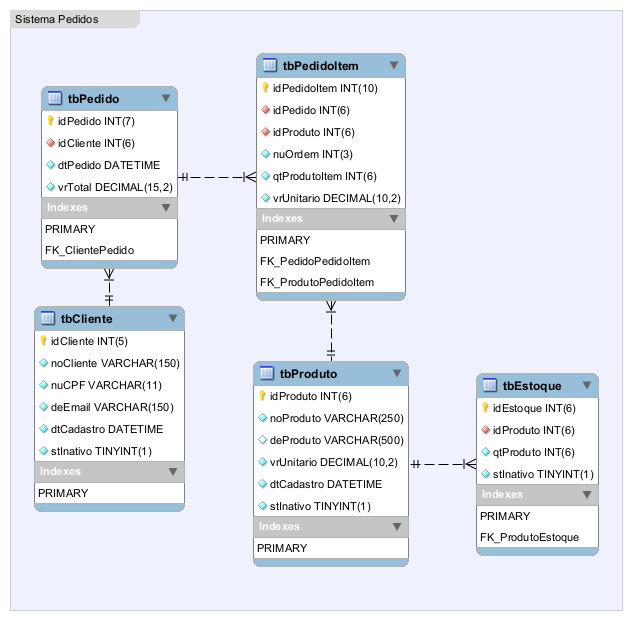
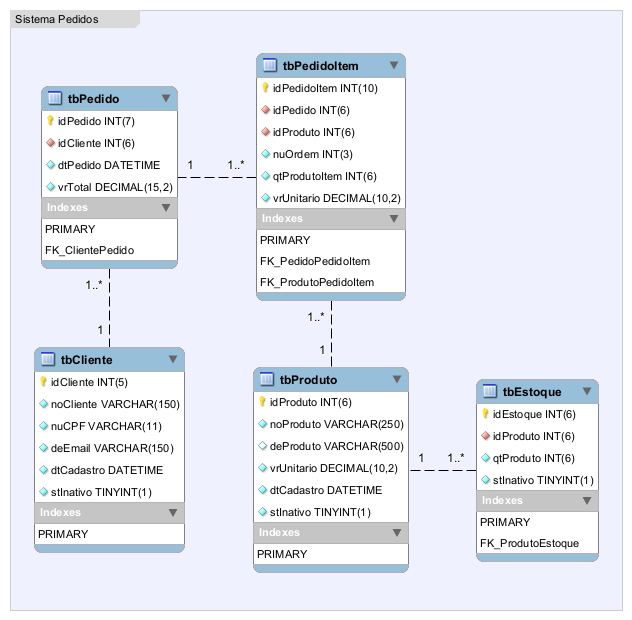
Criado MER e adicionadas Unique Constraints no script de banco

diff --git a/README.md b/README.md
@@ -1,2 +1,5 @@
 # Sistema de Pedidos 
 Sistema de cadastro de pedidos e gerenciamento de produtos para uma mercearia
+
+
+[Projeto do Sistema de Pedidos](https://docs.google.com/document/d/1JNCUd9TkS_o9U6tWuVdpt5_gbHLlnE0F6lXU_Gy1FqU/edit?usp=sharing)
